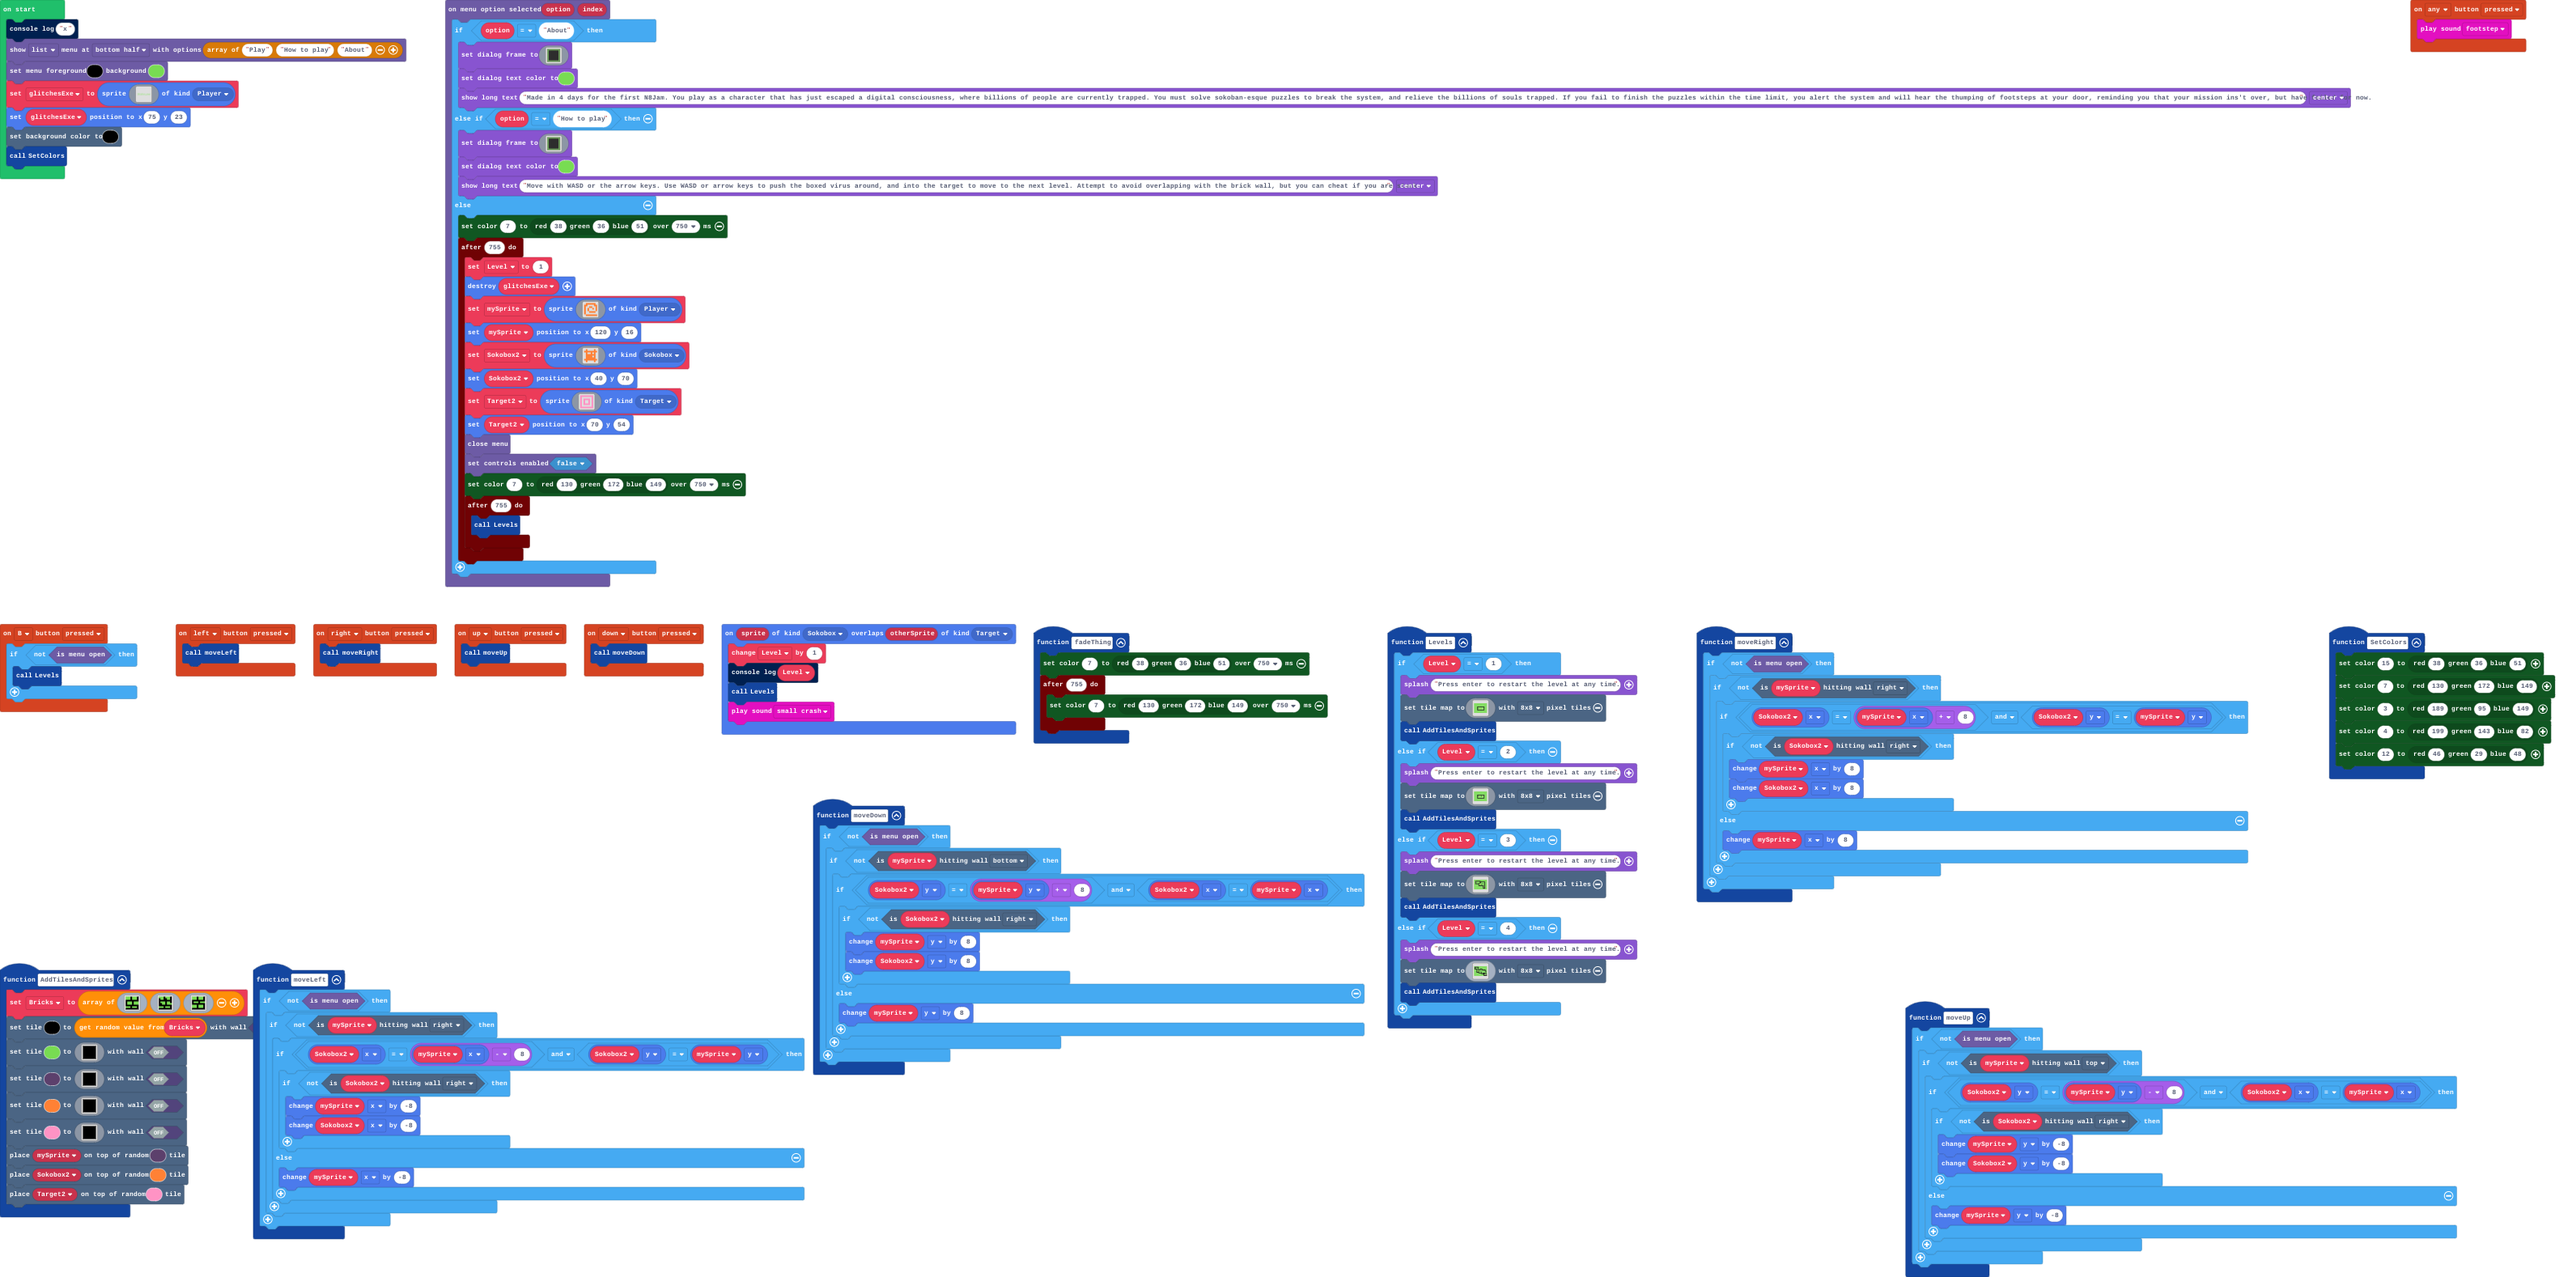
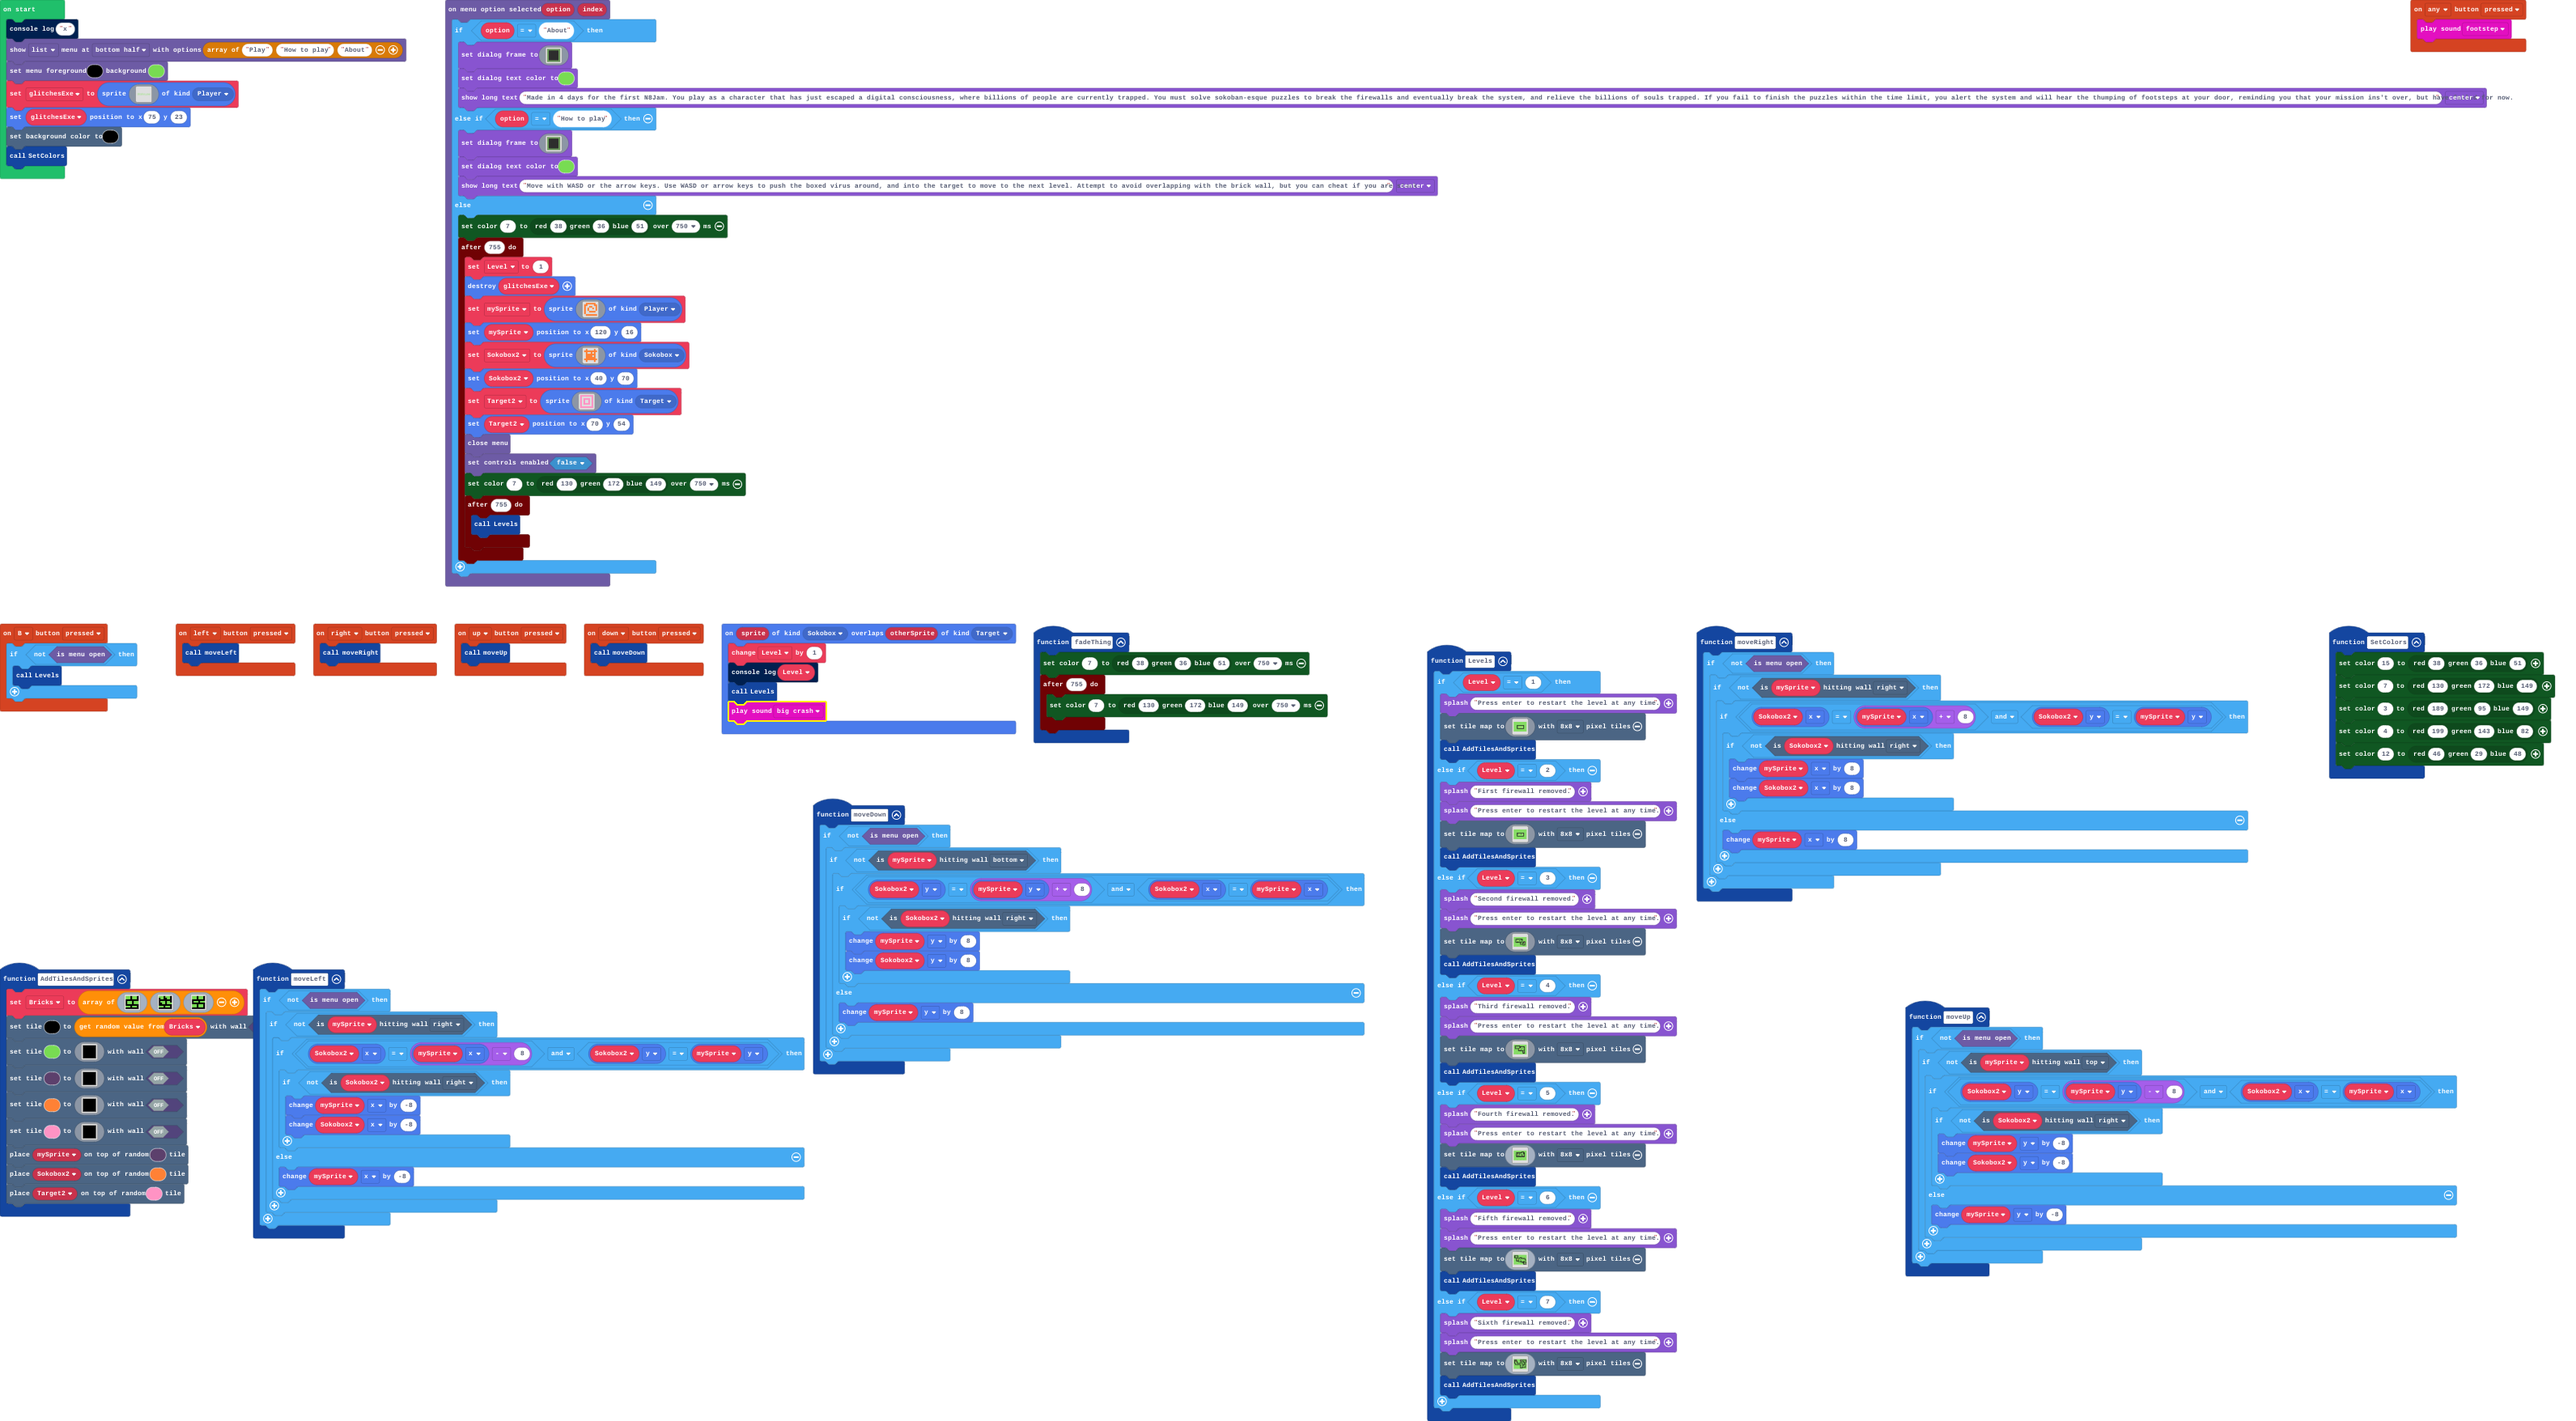
Update main.blocks, main.ts

Changed region(s): [[0.0, 0.0, 0.9953, 1.0], [0.902, 0.4347, 0.9953, 0.621]]

diff --git a/main.ts b/main.ts
@@ -25,6 +25,7 @@ function Levels () {
             `, TileScale.Eight)
         AddTilesAndSprites()
     } else if (Level == 2) {
+        game.splash("First firewall removed.")
         game.splash("Press enter to restart the level at any time.")
         scene.setTileMap(img`
             7 7 7 7 7 7 7 7 7 7 7 7 7 7 7 7 7 7 7 7 
@@ -45,6 +46,28 @@ function Levels () {
             `, TileScale.Eight)
         AddTilesAndSprites()
     } else if (Level == 3) {
+        game.splash("Second firewall removed.")
+        game.splash("Press enter to restart the level at any time.")
+        scene.setTileMap(img`
+            7 7 7 7 7 7 7 7 7 7 7 7 7 7 7 7 7 7 7 7 
+            7 7 7 7 7 7 7 7 7 7 7 7 7 7 7 7 7 7 7 7 
+            7 7 7 7 7 7 7 7 7 7 7 7 7 7 7 7 7 7 7 7 
+            7 7 7 f f f f f f f f f f f 7 7 7 7 7 7 
+            7 7 7 f 7 7 7 7 7 7 7 7 f f 7 7 7 7 7 7 
+            7 7 7 f c 7 4 7 7 f 7 7 7 f 7 7 7 7 7 7 
+            7 7 7 f 7 7 7 7 7 f 7 f 7 f 7 7 7 7 7 7 
+            7 7 7 f 7 7 f 7 7 7 7 7 7 f 7 f f f 7 7 
+            7 7 7 f f f f f f f f f 7 f 7 f 3 f 7 7 
+            7 7 7 7 7 7 7 7 7 7 f 7 7 f f f 7 f 7 7 
+            7 7 7 7 7 7 7 7 7 7 f 7 7 7 7 7 7 f 7 7 
+            7 7 7 7 7 7 7 7 7 7 f f f f f 7 7 f 7 7 
+            7 7 7 7 7 7 7 7 7 7 7 7 7 7 f f f f 7 7 
+            7 7 7 7 7 7 7 7 7 7 7 7 7 7 7 7 7 7 7 7 
+            7 7 7 7 7 7 7 7 7 7 7 7 7 7 7 7 7 7 7 7 
+            `, TileScale.Eight)
+        AddTilesAndSprites()
+    } else if (Level == 4) {
+        game.splash("Third firewall removed.")
         game.splash("Press enter to restart the level at any time.")
         scene.setTileMap(img`
             7 7 7 7 7 7 7 7 7 7 7 7 7 7 7 7 7 7 7 7 
@@ -64,7 +87,29 @@ function Levels () {
             7 7 7 7 7 7 7 7 7 7 7 7 7 7 7 7 7 7 7 7 
             `, TileScale.Eight)
         AddTilesAndSprites()
-    } else if (Level == 4) {
+    } else if (Level == 5) {
+        game.splash("Fourth firewall removed.")
+        game.splash("Press enter to restart the level at any time.")
+        scene.setTileMap(img`
+            7 7 7 7 7 7 7 7 7 7 7 7 7 7 7 7 7 7 7 7 
+            7 7 7 7 7 7 7 7 7 7 7 7 7 7 7 7 7 7 7 7 
+            7 7 7 7 7 7 7 7 7 7 7 7 f f f f 7 7 7 7 
+            7 7 7 7 f f f f f f f f f 7 7 f f 7 7 7 
+            7 7 7 7 f 7 f 7 7 f 7 7 7 7 7 f f 7 7 7 
+            7 7 7 7 f 7 f 7 7 f 7 7 f 7 7 f f 7 7 7 
+            7 7 7 7 f 7 4 7 7 f 7 7 f 7 7 7 f 7 7 7 
+            7 7 7 7 f 7 f 7 7 7 7 7 f 7 7 7 f 7 7 7 
+            7 7 7 7 f c 7 f 7 f 7 7 f 7 f 3 f 7 7 7 
+            7 7 7 7 f f f f f f f f f f f f f 7 7 7 
+            7 7 7 7 7 7 7 7 7 7 7 7 7 7 7 7 7 7 7 7 
+            7 7 7 7 7 7 7 7 7 7 7 7 7 7 7 7 7 7 7 7 
+            7 7 7 7 7 7 7 7 7 7 7 7 7 7 7 7 7 7 7 7 
+            7 7 7 7 7 7 7 7 7 7 7 7 7 7 7 7 7 7 7 7 
+            7 7 7 7 7 7 7 7 7 7 7 7 7 7 7 7 7 7 7 7 
+            `, TileScale.Eight)
+        AddTilesAndSprites()
+    } else if (Level == 6) {
+        game.splash("Fifth firewall removed.")
         game.splash("Press enter to restart the level at any time.")
         scene.setTileMap(img`
             7 7 7 7 7 7 7 7 7 7 7 7 7 7 7 7 7 7 7 7 
@@ -82,6 +127,27 @@ function Levels () {
             7 7 7 7 7 7 7 7 7 7 7 7 7 7 f f 7 7 f f 
             7 7 7 7 7 7 7 7 7 7 7 7 7 7 7 f 7 7 3 7 
             7 7 7 7 7 7 7 7 7 7 7 7 7 7 7 f f f f f 
+            `, TileScale.Eight)
+        AddTilesAndSprites()
+    } else if (Level == 7) {
+        game.splash("Sixth firewall removed.")
+        game.splash("Press enter to restart the level at any time.")
+        scene.setTileMap(img`
+            7 7 7 7 7 7 7 7 7 7 7 7 7 7 7 7 7 7 7 7 
+            7 f f f f 7 7 7 7 7 f f f f f f f f f f 
+            7 f c 7 f 7 7 7 7 7 f 3 7 7 7 7 7 7 7 f 
+            7 f f 4 f f 7 7 7 7 f f f f f f 7 7 7 f 
+            7 f 7 7 7 f 7 7 7 7 7 7 7 7 7 f f 7 f f 
+            7 f 7 7 7 f 7 7 7 7 f f f f 7 7 f 7 f 7 
+            7 f f 7 7 f f f f f f 7 7 f 7 7 f 7 f 7 
+            7 7 f 7 7 7 7 7 7 7 7 7 7 f 7 7 f 7 f 7 
+            7 7 f f f f f f f f f 7 7 f 7 f f 7 f 7 
+            7 7 7 7 7 7 7 7 7 7 f 7 7 f f f 7 7 f 7 
+            7 7 7 7 7 7 7 7 7 7 f 7 7 7 7 7 7 7 f 7 
+            7 7 7 7 7 7 7 7 7 7 f 7 7 f 7 7 7 7 f 7 
+            7 7 7 7 7 7 7 7 7 7 f 7 7 f f f f f f 7 
+            7 7 7 7 7 7 7 7 7 7 f f f f 7 7 7 7 7 7 
+            7 7 7 7 7 7 7 7 7 7 7 7 7 7 7 7 7 7 7 7 
             `, TileScale.Eight)
         AddTilesAndSprites()
     }
@@ -136,7 +202,7 @@ sprites.onOverlap(SpriteKind.Sokobox, SpriteKind.Target, function (sprite, other
     Level += 1
     console.log(Level)
     Levels()
-    music.smallCrash.play()
+    music.bigCrash.play()
 })
 controller.left.onEvent(ControllerButtonEvent.Pressed, function () {
     moveLeft()
@@ -308,7 +374,7 @@ blockMenu.onMenuOptionSelected(function (option, index) {
             ffffffffffffffffffffffffffffffffffffffffffffffff
             `)
         game.setDialogTextColor(7)
-        game.showLongText("Made in 4 days for the first N8Jam. You play as a character that has just escaped a digital consciousness, where billions of people are currently trapped. You must solve sokoban-esque puzzles to break the system, and relieve the billions of souls trapped. If you fail to finish the puzzles within the time limit, you alert the system and will hear the thumping of footsteps at your door, reminding you that your mission ins't over, but have failed for now.", DialogLayout.Center)
+        game.showLongText("Made in 4 days for the first N8Jam. You play as a character that has just escaped a digital consciousness, where billions of people are currently trapped. You must solve sokoban-esque puzzles to break the firewalls and eventually break the system, and relieve the billions of souls trapped. If you fail to finish the puzzles within the time limit, you alert the system and will hear the thumping of footsteps at your door, reminding you that your mission ins't over, but have failed for now.", DialogLayout.Center)
     } else if (option == "How to play") {
         game.setDialogFrame(img`
             ffffffffffffffffffffffffffffffffffffffffffffffff
